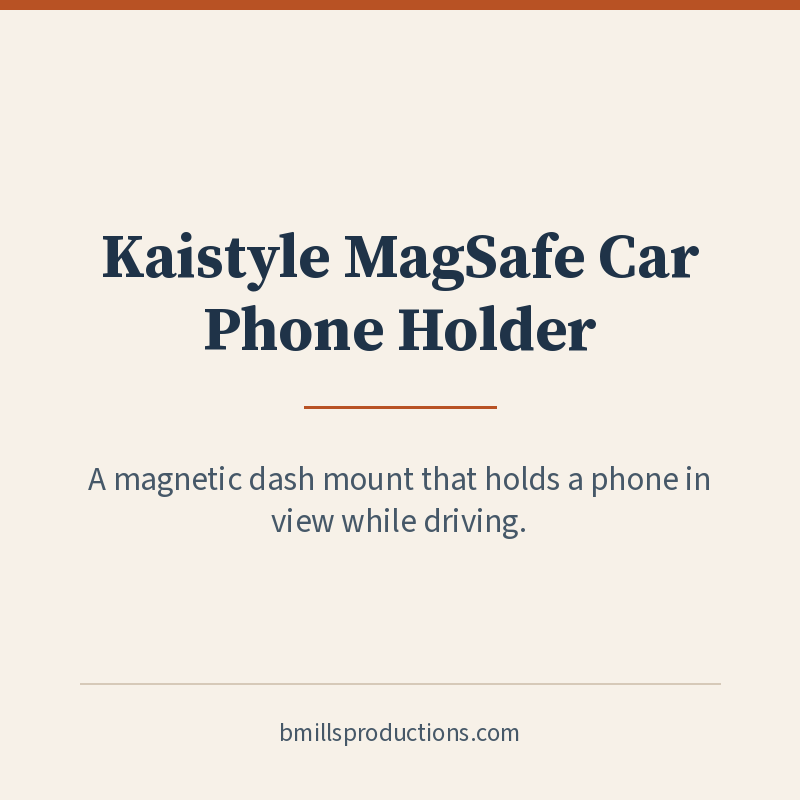
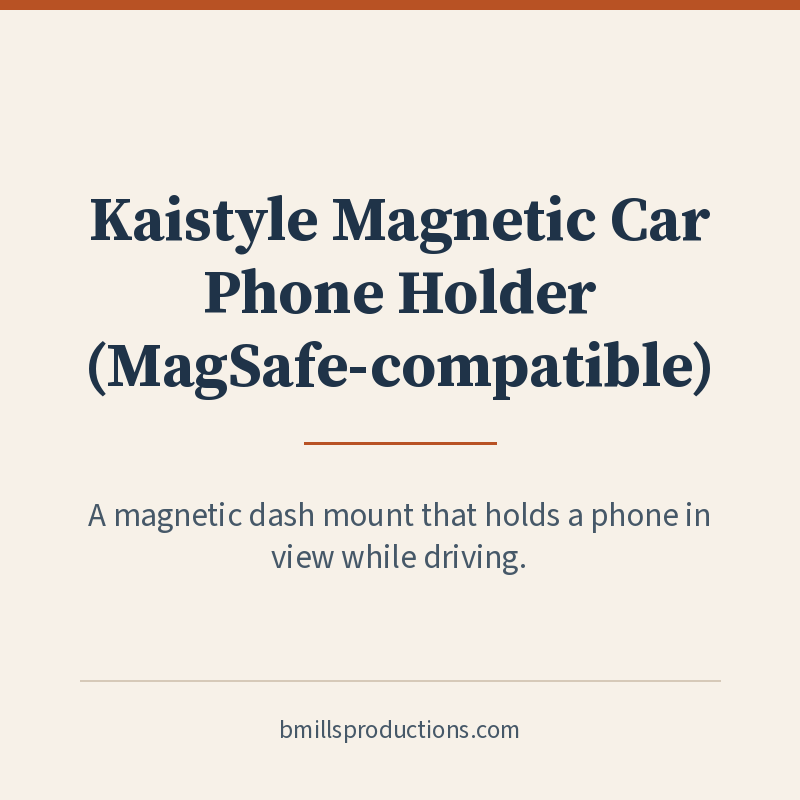
Rename the Kaistyle find to MagSafe-compatible wording.

Changed region(s): [[0.0938, 0.25, 0.9062, 0.7188], [0.0938, 0.8438, 0.9062, 0.875], [0.3438, 0.9062, 0.6562, 0.9375]]

diff --git a/links/index.html b/links/index.html
@@ -450,10 +450,10 @@
           <article class="card link-card" id="find-28">
             <div class="card-media finds-media">
               <span class="find-badge">Find #28</span>
-              <img src="../images/finds/28-kaistyle-magsafe-car-mount.png" width="800" height="800" alt="Text graphic for Kaistyle MagSafe Car Phone Holder, with the line: A magnetic dash mount that holds a phone in view while driving.">
+              <img src="../images/finds/28-kaistyle-magsafe-car-mount.png" width="800" height="800" alt="Text graphic for Kaistyle Magnetic Car Phone Holder (MagSafe-compatible), with the line: A magnetic dash mount that holds a phone in view while driving.">
             </div>
             <div class="card-body">
-              <h3>Kaistyle MagSafe Car Phone Holder</h3>
+              <h3>Kaistyle Magnetic Car Phone Holder (MagSafe-compatible)</h3>
               <p class="card-blurb">A magnetic dash mount that keeps your phone in view for maps while you drive.</p>
               <div class="buy-row">
                 <a class="btn btn-primary btn-amazon" href="https://www.amazon.com/dp/B0C1Y8Z6VT?tag=billmills-20" target="_blank" rel="sponsored noopener">See it on Amazon</a>

diff --git a/links/products.js b/links/products.js
@@ -285,13 +285,13 @@ window.FAVORITE_FINDS = [
   },
   {
     num: 28,
-    name: "Kaistyle MagSafe Car Phone Holder",
+    name: "Kaistyle Magnetic Car Phone Holder (MagSafe-compatible)",
     blurb: "A magnetic dash mount that keeps your phone in view for maps while you drive.",
     url: "https://www.amazon.com/dp/B0C1Y8Z6VT?tag=billmills-20",
     image: "../images/finds/28-kaistyle-magsafe-car-mount.png",
     width: 800,
     height: 800,
-    alt: "Text graphic for Kaistyle MagSafe Car Phone Holder, with the line: A magnetic dash mount that holds a phone in view while driving."
+    alt: "Text graphic for Kaistyle Magnetic Car Phone Holder (MagSafe-compatible), with the line: A magnetic dash mount that holds a phone in view while driving."
   },
   {
     num: 29,
